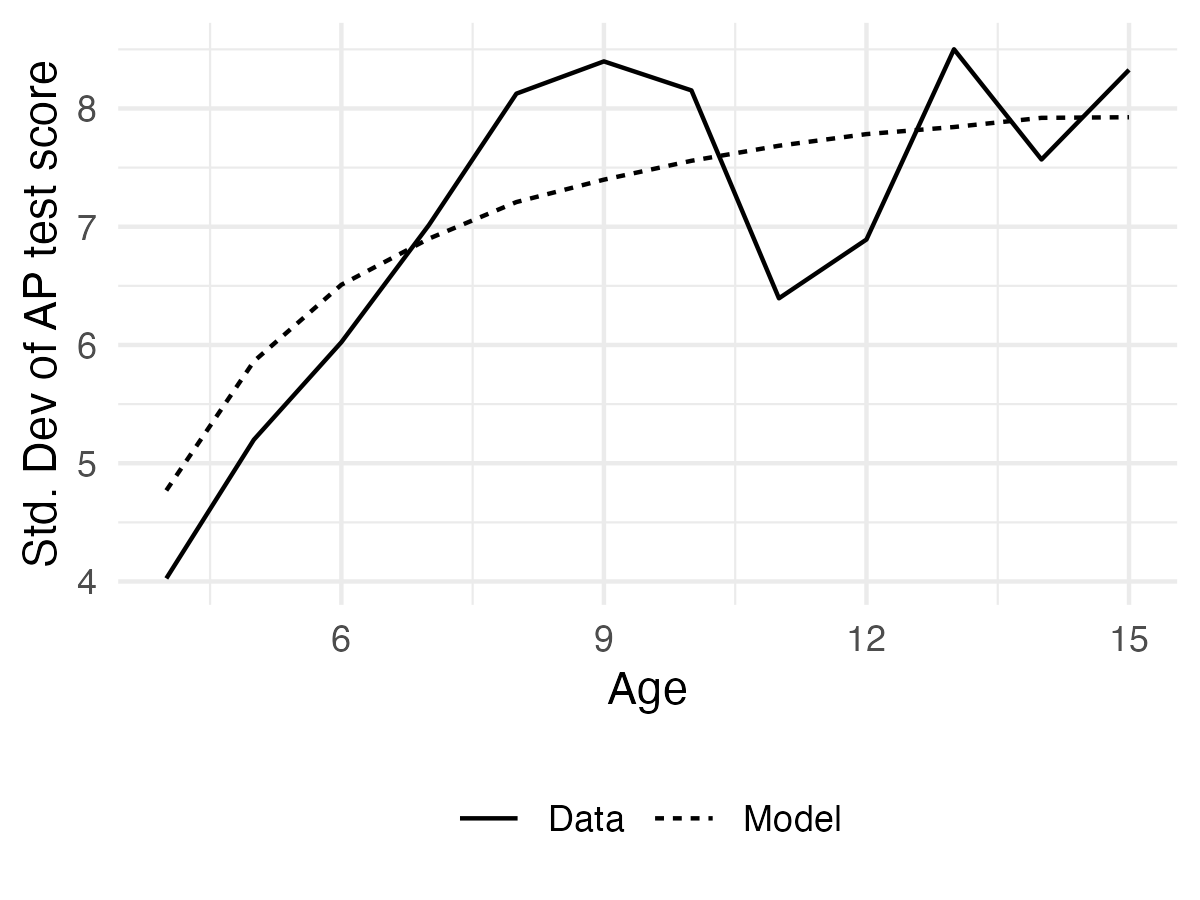
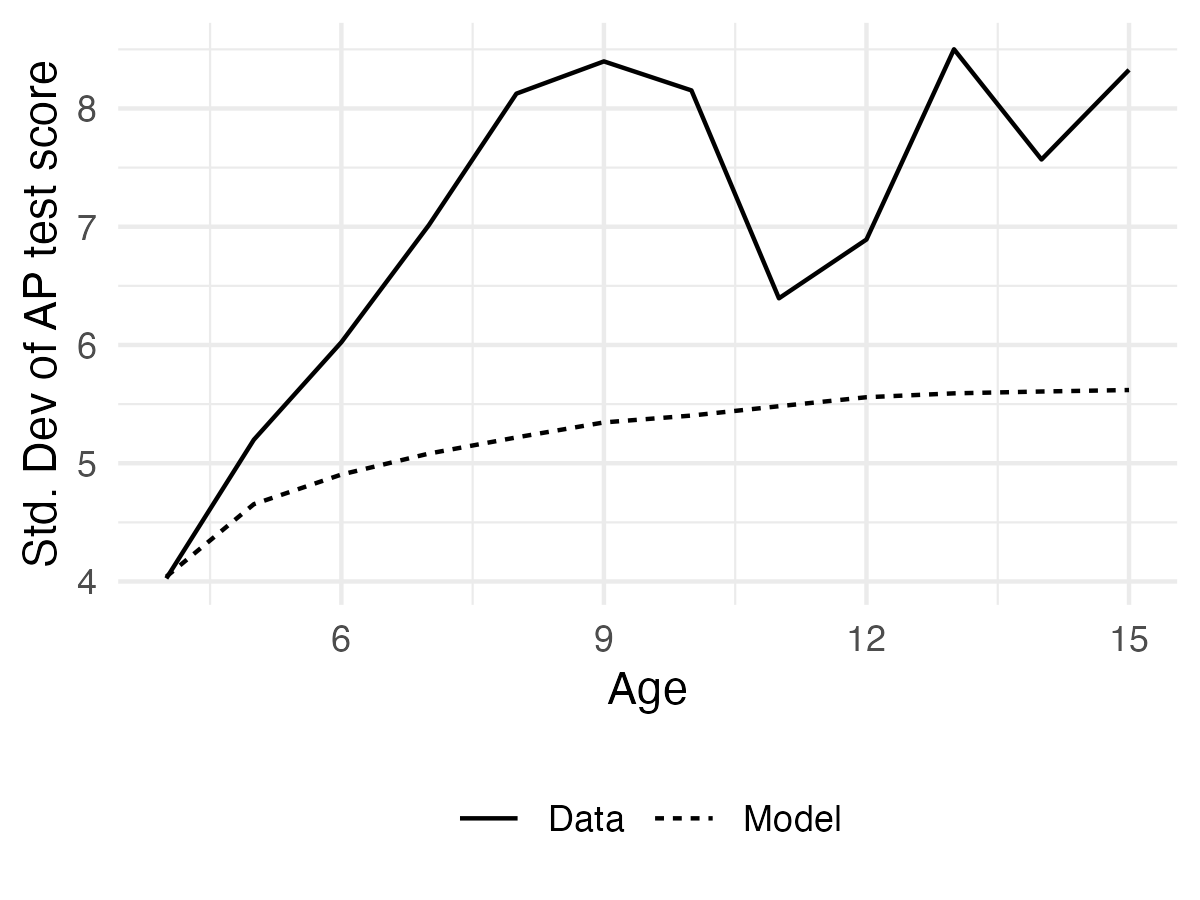
new results

diff --git a/output/tables/child_support.tex b/output/tables/child_support.tex
@@ -8,11 +8,11 @@ $\Delta$ Fertility (\%) & -1.39 & -6.01 \\
  & [-4.37 -1.38] & [-9.53 -4.32] \\ 
 $\Delta$ Divorce (\%) & -2.45 & -6.29 \\ 
  & [-4.61 -2.36] & [-9.09 -5.06] \\ 
-$\Delta$ Skill (\% sd) & -4.16 & -12.74 \\ 
- & [-11.38 5.76] & [-21.93 2.57] \\ 
-\hspace{10pt}$\Delta$ TFP & -5.38 & -14.47 \\ 
- & [-11.86 4.34] & [-22.64 -0.55] \\ 
-\hspace{10pt}$\Delta$ Mother's Time & 0.83 & 1.11 \\ 
- & [0.03 2.84] & [0.04 3.58] \\ 
-\hspace{10pt}$\Delta$ Father's Time & 0.40 & 0.62 \\ 
- & [-0.29 2.84] & [-0.60 4.51] \\ 
+$\Delta$ Skill (\% sd) & -2.65 & -9.57 \\ 
+ & [-9.31 7.59] & [-19.08 6.04] \\ 
+\hspace{10pt}$\Delta$ TFP & -4.99 & -13.26 \\ 
+ & [-11.17 4.83] & [-21.51 2.12] \\ 
+\hspace{10pt}$\Delta$ Mother's Time & 1.58 & 2.39 \\ 
+ & [0.06 4.40] & [0.16 5.54] \\ 
+\hspace{10pt}$\Delta$ Father's Time & 0.76 & 1.30 \\ 
+ & [-0.59 4.65] & [-0.71 7.51] \\ 

diff --git a/output/tables/custody_standard.tex b/output/tables/custody_standard.tex
@@ -8,11 +8,11 @@ $\Delta$ Fertility (\%) & -0.37 & -0.00 \\
  & [-0.65 0.20] & [-0.13 0.60] \\ 
 $\Delta$ Divorce (\%) & -0.56 & -0.08 \\ 
  & [-0.86 0.44] & [-0.52 0.78] \\ 
-$\Delta$ Skill (\% sd) & -2.45 & 1.14 \\ 
- & [-2.74 0.82] & [-0.94 2.30] \\ 
-\hspace{10pt}$\Delta$ TFP & -1.65 & 0.71 \\ 
- & [-1.67 0.92] & [-0.86 1.37] \\ 
-\hspace{10pt}$\Delta$ Mother's Time & -0.00 & 0.03 \\ 
- & [-0.15 0.42] & [-0.32 0.16] \\ 
-\hspace{10pt}$\Delta$ Father's Time & -0.80 & 0.41 \\ 
- & [-1.96 -0.03] & [0.02 1.00] \\ 
+$\Delta$ Skill (\% sd) & -2.82 & 1.52 \\ 
+ & [-3.33 0.25] & [-0.65 2.62] \\ 
+\hspace{10pt}$\Delta$ TFP & -1.55 & 0.79 \\ 
+ & [-1.68 0.68] & [-0.87 1.31] \\ 
+\hspace{10pt}$\Delta$ Mother's Time & 0.07 & 0.03 \\ 
+ & [-0.24 0.55] & [-0.62 0.30] \\ 
+\hspace{10pt}$\Delta$ Father's Time & -1.34 & 0.70 \\ 
+ & [-3.17 -0.10] & [0.05 1.66] \\ 

diff --git a/output/tables/divorce_standard.tex b/output/tables/divorce_standard.tex
@@ -8,11 +8,11 @@ $\Delta$ Fertility (\%) & -2.25 & 1.28 \\
  & [-2.92 3.08] & [-2.39 2.09] \\ 
 $\Delta$ Divorce (\%) & -6.85 & 4.34 \\ 
  & [-8.23 1.87] & [-1.53 5.31] \\ 
-$\Delta$ Skill (\% sd) & -5.67 & 0.97 \\ 
- & [-3.69 5.12] & [-3.48 2.04] \\ 
-\hspace{10pt}$\Delta$ TFP & -7.00 & 2.11 \\ 
- & [-5.63 3.33] & [-2.99 3.16] \\ 
-\hspace{10pt}$\Delta$ Mother's Time & 0.48 & -0.39 \\ 
- & [-0.00 2.89] & [-2.33 0.00] \\ 
-\hspace{10pt}$\Delta$ Father's Time & 0.84 & -0.75 \\ 
- & [0.03 2.58] & [-1.92 -0.01] \\ 
+$\Delta$ Skill (\% sd) & -4.16 & 0.03 \\ 
+ & [-2.05 5.67] & [-3.41 1.08] \\ 
+\hspace{10pt}$\Delta$ TFP & -6.57 & 1.88 \\ 
+ & [-7.26 2.72] & [-2.59 4.64] \\ 
+\hspace{10pt}$\Delta$ Mother's Time & 0.92 & -0.58 \\ 
+ & [-0.08 4.13] & [-3.36 0.03] \\ 
+\hspace{10pt}$\Delta$ Father's Time & 1.50 & -1.26 \\ 
+ & [0.03 4.50] & [-3.25 0.00] \\ 

diff --git a/output/tables/stage_5.tex b/output/tables/stage_5.tex
@@ -1,10 +1,10 @@
 Parameter & Estimate & (Std Error) \\ \cmidrule(r){1-3} 
-$\gamma_{\psi,0}$ & -17.19 & (2.65) \\ 
-$\gamma_{\psi,1}$ & 1.28 & (0.18) \\ 
-$\gamma_{\psi,2}$ & 1.13 & (0.16) \\ 
-$\gamma_{\psi,3}$ & 0.05 & (0.04) \\ 
-$\gamma_{\psi,4}$ & -0.07 & (0.02) \\ 
-$\delta_{k}$ & 0.95 & (0.03) \\ 
-$\sigma_{\xi}$ & 0.71 & (0.20) \\ 
-$\gamma_{AP}$ & 14.88 & (2.76) \\ 
+$\gamma_{\psi,0}$ & -27.25 & (4.78) \\ 
+$\gamma_{\psi,1}$ & 1.34 & (0.30) \\ 
+$\gamma_{\psi,2}$ & 1.14 & (0.32) \\ 
+$\gamma_{\psi,3}$ & 0.11 & (0.06) \\ 
+$\gamma_{\psi,4}$ & -0.08 & (0.03) \\ 
+$\delta_{k}$ & 0.94 & (0.04) \\ 
+$\sigma_{\xi}$ & 0.68 & (0.18) \\ 
+$\gamma_{AP}$ & 20.05 & (3.19) \\ 
 $\rho$ & 1.46 & (0.86) \\ 

diff --git a/output/tables/skill_decomposition.tex b/output/tables/skill_decomposition.tex
@@ -1,5 +1,5 @@
 Input & Estimate & Conf. Interval \\ \cmidrule(r){1-3} 
-Total & -0.24 & [-0.34 -0.06] \\ 
-TFP & -0.34 & [-0.70 -0.13] \\ 
-Mother's Time & 0.02 & [0.00 0.07] \\ 
-Father's Time & 0.08 & [0.01 0.39] \\ 
+Total & -0.05 & [-0.11 0.12] \\ 
+TFP & -0.21 & [-0.57 0.00] \\ 
+Mother's Time & 0.03 & [0.00 0.12] \\ 
+Father's Time & 0.14 & [0.02 0.46] \\ 

diff --git a/output/tables/model_fit_s5.tex b/output/tables/model_fit_s5.tex
@@ -1,3 +1,3 @@
 Coefficient & Data & Model \\ \cmidrule(r){1-3} 
 $\log(\text{mother's time})$ & 0.49 & 0.49 \\ 
-Lagged Test Score & 0.45 & 0.53 \\ 
+Lagged Test Score & 0.45 & 0.42 \\ 
